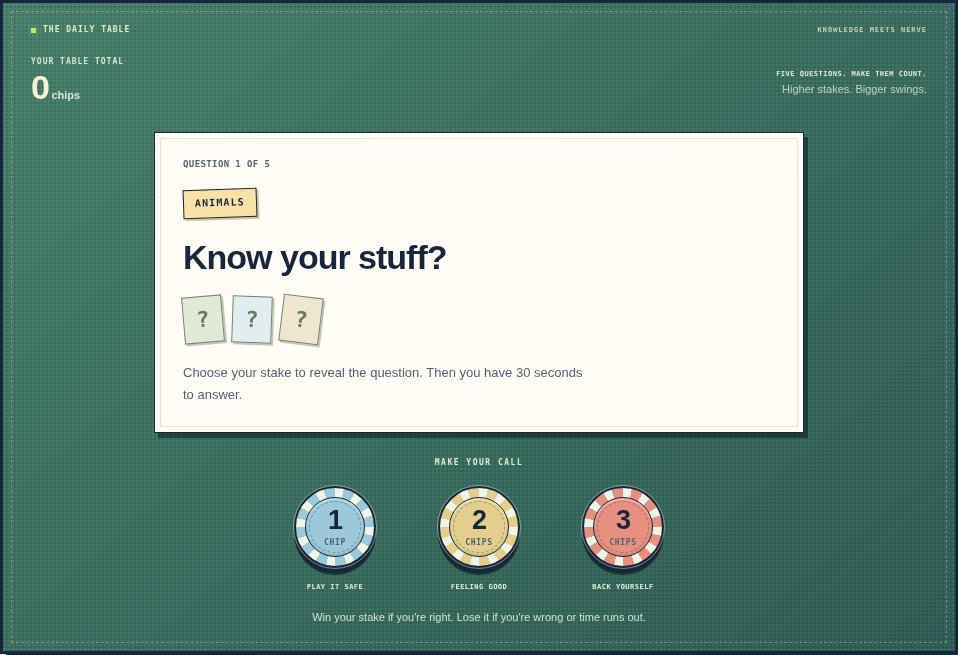
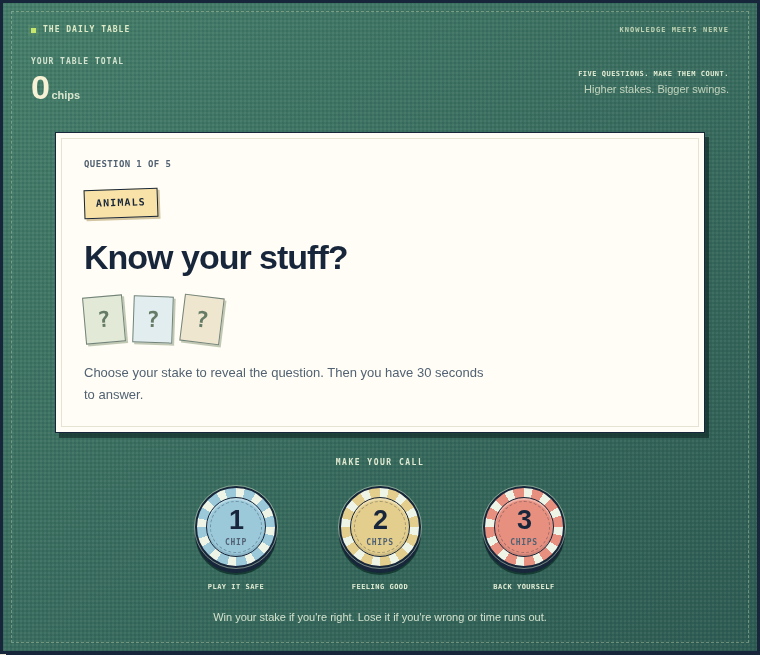
Share Stack Up reset cards, simplify Lowball Daily label and centre Stake

diff --git a/games/stake/index.html b/games/stake/index.html
@@ -47,13 +47,13 @@ textarea{resize:none}.big{font-size:44px;font-weight:800;margin:.1em 0}
 .game-popup-backdrop{position:fixed;inset:0;z-index:1000;background:rgba(7,4,20,.82);display:grid;place-items:center;padding:18px}.game-popup-backdrop[hidden]{display:none}.game-popup{position:relative;width:min(100%,540px);max-height:min(86vh,760px);overflow:auto;background:var(--card);color:var(--ink);border:2px solid var(--line);box-shadow:6px 7px 0 #05030d;padding:26px}.game-popup h2{font-size:24px;margin:4px 0 12px}.game-popup p{color:var(--mut)}.popup-kicker{color:var(--gold)!important;font-size:11px;font-weight:800;letter-spacing:.14em}.game-popup-close{position:absolute;right:10px;top:10px;border:2px solid var(--line);background:transparent;color:var(--ink);font-size:24px;width:36px;height:36px;cursor:pointer}.popup-instructions{line-height:1.6}.popup-instructions strong{color:var(--ink)}.popup-done{margin-top:12px}.extended-stats-grid{display:grid;grid-template-columns:repeat(2,minmax(0,1fr));gap:10px}.extended-stats-grid>div{border:2px solid var(--line);padding:12px;background:var(--bg)}.extended-stats-grid strong,.extended-stats-grid span{display:block}.extended-stats-grid strong{font-size:23px;color:var(--gold)}.extended-stats-grid span{font-size:10px;color:var(--mut);font-weight:800;letter-spacing:.07em}.popup-footnote{font-size:12px}.standalone-footer{text-align:center;color:var(--mut);font-size:12px;margin:28px 0 0}.sound-control{background:transparent;color:var(--mut);border:0;font:inherit;cursor:pointer}.standalone-legal{display:flex;justify-content:center;gap:16px;margin:12px}.standalone-legal a{color:var(--mut)}.standalone-site-footer{margin-top:0}
 @media(max-width:520px){.standalone-wrap{padding:18px 12px 26px}.standalone-heading{gap:10px}.standalone-title-group h1{font-size:25px}.quick-stats{gap:6px}.quick-stat{padding:10px 4px}.quick-stat strong{font-size:22px}.game-popup{padding:24px 18px}}
 
-</style><script defer src="../../navigation.js"></script><script src="../../daily-clock.js"></script><link rel="stylesheet" href="../../break-room.css"><script src="questions.js"></script><link rel="stylesheet" href="timer.css"><link rel="stylesheet" href="../../game-dialog.css"><link rel="stylesheet" href="table.css"></head><body><header class="site-header game-site-header"><div class="wrap game-header-inner"><button class="game-menu-toggle" id="game-menu-toggle" type="button" aria-expanded="false" aria-controls="game-menu"><span class="hamburger-lines" aria-hidden="true">☰</span><span class="menu-toggle-label">MENU</span></button><a class="brand" href="../../index.html" aria-label="Break Room — back to all games"><span class="break-mark" aria-hidden="true"><i></i><i></i><i></i><i></i></span><span class="break-wordmark">BREAK ROOM</span></a><a class="game-header-account" href="../../login.html">ACCOUNT</a></div><nav class="game-menu" id="game-menu" aria-label="Break Room menu" aria-hidden="true" hidden>
+</style><script defer src="../../navigation.js"></script><script src="../../daily-clock.js"></script><link rel="stylesheet" href="../../break-room.css"><script src="questions.js"></script><link rel="stylesheet" href="timer.css"><link rel="stylesheet" href="../../game-dialog.css"><link rel="stylesheet" href="table.css"><link rel="stylesheet" href="../../daily-reset.css"></head><body><header class="site-header game-site-header"><div class="wrap game-header-inner"><button class="game-menu-toggle" id="game-menu-toggle" type="button" aria-expanded="false" aria-controls="game-menu"><span class="hamburger-lines" aria-hidden="true">☰</span><span class="menu-toggle-label">MENU</span></button><a class="brand" href="../../index.html" aria-label="Break Room — back to all games"><span class="break-mark" aria-hidden="true"><i></i><i></i><i></i><i></i></span><span class="break-wordmark">BREAK ROOM</span></a><a class="game-header-account" href="../../login.html">ACCOUNT</a></div><nav class="game-menu" id="game-menu" aria-label="Break Room menu" aria-hidden="true" hidden>
 <div class="game-menu-heading"><span class="section-meta">BREAK ROOM</span><button class="game-menu-close" id="game-menu-close" type="button" aria-label="Close menu">×</button></div>
 <div class="game-menu-content"><div class="game-menu-group"><span class="section-meta">PLAY NOW</span><a href="../../index.html#daily-games">All games</a><a href="../../games/lowball/index.html">Lowball</a><a href="../../games/stake/index.html">Stake</a><a href="../../games/stack-up/index.html">Stack Up</a></div>
 <div class="game-menu-group"><span class="section-meta">COMING SOON</span><a href="../../games/pixel-pairs/index.html">Pixel Pairs</a><a href="../../games/word-forge/index.html">Word Forge</a><a href="../../games/gridlock/index.html">Gridlock</a><a href="../../games/number-drop/index.html">Number Drop</a><a href="../../games/memory-lane/index.html">Memory Lane</a><a href="../../games/mystery-cabinet/index.html">Mystery Cabinet</a></div><div class="game-menu-group"><span class="section-meta">YOUR ARCADE</span><a href="../../profile.html">My stats</a><a href="../../friends.html">Friends</a><a href="../../login.html">Account / sign in</a></div></div></nav></header><main class="standalone-page"><div class="standalone-wrap">
 <section class="standalone-heading" aria-labelledby="stake-page-title"><div class="standalone-heading-spacer"></div><div class="standalone-title-group"><h1 id="stake-page-title">Stake</h1><p>Trivia / Risk · Bet your chips.</p></div><section class="quick-stats" aria-label="Your Stake stats"><div class="quick-stat"><strong id="stake-streak">0</strong><span>Streak</span></div><div class="quick-stat"><strong id="stake-best">0</strong><span>Best</span></div><div class="quick-stat"><strong id="stake-played">0</strong><span>Played</span></div></section><div class="standalone-tools"><button class="mini-tool" id="help-popup-open" type="button" aria-label="How to play" title="How to play">?</button><button class="mini-tool" id="stats-popup-open" type="button" aria-label="Extended game stats" title="Extended game stats"><img src="../../assets/icons/trophy.svg" alt=""></button></div></section>
 
-<aside class="live-reset" aria-label="Daily reset">NEXT DAILY RESET<strong data-daily-countdown>--:--:--</strong><p>Midnight Sydney. Every game.</p></aside><div id="app"></div>
+<aside class="live-reset timer-card daily-reset-card" aria-label="Daily reset"><div class="card-heading">NEXT DAILY RESET</div><div class="reset-clock" data-daily-countdown>--:--:--</div><p>Same time. Every game.</p></aside><div id="app"></div>
 <div class="game-popup-backdrop" id="help-popup" hidden><section class="game-popup" role="dialog" aria-modal="true" aria-labelledby="help-popup-title"><button class="game-popup-close" type="button" data-popup-close aria-label="Close">×</button><p class="popup-kicker">PLAYER GUIDE</p><h2 id="help-popup-title">HOW TO PLAY STAKE</h2><p>Stake chips on your knowledge across five daily trivia questions, or play unlimited rounds.</p><div class="popup-instructions"><p><strong>1. Choose your stake.</strong> Bet 1, 2, or 3 chips before the answer choices appear.</p><p><strong>2. Pick an answer.</strong> You have 30 seconds after placing your bet. A correct answer wins the chips you staked; a wrong answer or timeout loses them. The timer keeps running if you leave or switch modes.</p><p><strong>3. Finish the daily set.</strong> Answer all five questions to see your final score and share your result. Unlimited mode is for practice and does not affect your daily streak.</p></div><button class="button pink popup-done" type="button" data-popup-close>GOT IT</button></section></div>
 <div class="game-popup-backdrop" id="stats-popup" hidden><section class="game-popup" role="dialog" aria-modal="true" aria-labelledby="stats-popup-title"><button class="game-popup-close" type="button" data-popup-close aria-label="Close">×</button><p class="popup-kicker">CABINET RECORD</p><h2 id="stats-popup-title">EXTENDED STATS</h2><p class="stats-popup-game">Stake · Trivia / Risk</p><div class="extended-stats-grid"><div><strong id="stat-played">0</strong><span>RUNS PLAYED</span></div><div><strong id="stat-best">—</strong><span>BEST SCORE</span></div><div><strong id="stat-average">—</strong><span>AVERAGE SCORE</span></div><div><strong id="stat-streak">0</strong><span>CURRENT STREAK</span></div><div><strong id="stat-perfect">0</strong><span>POSITIVE RUNS</span></div><div><strong id="stat-last">—</strong><span>LAST SCORE</span></div></div><p class="popup-footnote">Stats are stored in this browser and do not sync between devices.</p><button class="button pink popup-done" type="button" data-popup-close>BACK TO GAME</button></section></div>
 <div class="standalone-footer"><p>Break Room is an independent collection of daily games. Game artwork and challenge mechanics vary by cabinet.</p></div></div></main><footer class="site-footer standalone-site-footer"><div class="wrap footer-inner"><span>© 2026 Break Room · ONE DAY. ONE RUN.</span><div class="footer-links"><a href="../../index.html">All games</a><a href="../../style-guide.html">Style guide</a></div></div></footer>

diff --git a/games/stack-up/index.html b/games/stack-up/index.html
@@ -5,7 +5,7 @@
     <meta name="theme-color" content="#f4eddc">
     <title>Stack Up — Break Room</title>
     
-  <meta name="description" content="Sort five familiar things against the clock. Play a fresh daily challenge or free Infinite practice at Break Room."><link rel="icon" href="../../assets/break-room-icon.svg"><link rel="stylesheet" href="../../stack-layout.css"><link rel="stylesheet" href="stack-up.css"><script src="../../daily-clock.js"></script><script defer="" src="../../navigation.js"></script><script defer src="legacy-stacks.js"></script><script defer="" src="stacks.js"></script><script defer="" src="stack-up.js"></script><link rel="stylesheet" href="../../game-dialog.css"></head>
+  <meta name="description" content="Sort five familiar things against the clock. Play a fresh daily challenge or free Infinite practice at Break Room."><link rel="icon" href="../../assets/break-room-icon.svg"><link rel="stylesheet" href="../../stack-layout.css"><link rel="stylesheet" href="stack-up.css"><script src="../../daily-clock.js"></script><script defer="" src="../../navigation.js"></script><script defer src="legacy-stacks.js"></script><script defer="" src="stacks.js"></script><script defer="" src="stack-up.js"></script><link rel="stylesheet" href="../../game-dialog.css"><link rel="stylesheet" href="../../daily-reset.css"></head>
   <body>
     <div class="site-frame">
       <header class="topbar"><div class="header-brand"><button id="game-menu-toggle" type="button" aria-label="Open games menu" aria-controls="game-menu" aria-expanded="false">☰</button><a class="brand" href="../../index.html"><img src="../../assets/break-room-icon.svg" width="28" height="28" alt="">BREAK ROOM</a></div><nav class="main-nav" aria-label="Game mode"><button class="nav-link active" data-mode="daily" type="button" aria-pressed="true">Daily <em>10×</em></button><button class="nav-link" data-mode="infinite" type="button" aria-pressed="false">Infinite</button></nav><a class="player-chip" href="../../login.html"><span>ACCOUNT</span></a></header>
@@ -90,7 +90,7 @@
           </section>
 
           <section class="leaderboard-card" id="your-record"><div class="leaderboard-heading"><div><span class="tiny-label">ON THIS DEVICE</span><h2>Your record</h2></div></div><dl class="record-grid"><div><dt>Played</dt><dd id="record-played">0</dd></div><div><dt>Best</dt><dd id="record-best">—</dd></div><div><dt>Streak</dt><dd id="record-streak">0</dd></div><div><dt>Average</dt><dd id="record-average">—</dd></div></dl><p class="local-note">Daily results saved in this browser. Infinite is practice.</p></section>
-        <section class="timer-card"><div class="card-heading">NEXT DAILY RESET</div><div class="reset-clock" data-daily-countdown="">--:--:--</div><p>Same time. Every game.</p></section></aside>
+        <section class="timer-card daily-reset-card"><div class="card-heading">NEXT DAILY RESET</div><div class="reset-clock" data-daily-countdown="">--:--:--</div><p>Same time. Every game.</p></section></aside>
         </div>
       </main>
     <footer class="game-footer"><a href="../../index.html">← All games</a><p>BREAK ROOM · A little break. A few good games.</p><a href="../../profile.html">Profile</a></footer></div>

diff --git a/games/stake/table.css b/games/stake/table.css
@@ -32,3 +32,14 @@ body:has(#app) .standalone-page{max-width:1360px;padding-top:30px}.standalone-wr
 @media(max-width:900px){.standalone-heading .quick-stat{padding:10px 3px}.standalone-heading .quick-stat strong{font-size:20px}.standalone-heading .quick-stat span{font-size:7px;letter-spacing:.03em}.standalone-title-group p{font-size:12px}}
 @media(max-width:650px){#app{order:1}.standalone-heading:has(#stake-page-title){grid-template-columns:minmax(0,1fr) 144px minmax(0,1fr);gap:8px}#stake-page-title{font-size:30px}.standalone-title-group p{display:none}.standalone-heading .standalone-tools{gap:6px}.standalone-heading .mini-tool{width:36px;height:36px}.standalone-heading .quick-stat strong{font-size:19px}.standalone-heading .quick-stat span{font-size:7px}}
 @media(max-width:360px){.standalone-heading:has(#stake-page-title){grid-template-columns:minmax(0,1fr) 124px minmax(0,1fr)}#stake-page-title{font-size:24px}.standalone-heading .mini-tool{width:32px;height:34px;font-size:17px}.standalone-heading .standalone-tools{gap:4px}.standalone-heading .quick-stat{padding:9px 2px}.standalone-heading .quick-stat strong{font-size:18px}.standalone-heading .quick-stat span{font-size:6px}}
+/* Match Lowball's centred game column; the independent reset rail never offsets it. */
+body:has(#app) .standalone-page{max-width:none;width:100%;padding:28px 24px 32px}
+body:has(#app) .standalone-wrap{position:relative;display:flex;flex-direction:column;align-items:stretch;width:100%;max-width:760px;gap:18px;margin:0 auto;padding:0}
+.standalone-heading:has(#stake-page-title){order:0;align-self:stretch;width:100%}
+.standalone-wrap:has(#app)>#app{order:2;grid-column:auto;grid-row:auto;align-self:stretch;width:100%;min-width:0}
+#app .pips{justify-content:center}#app>.mut{text-align:center}
+.standalone-wrap:has(#app)>.live-reset{order:1;position:static;grid-column:auto;grid-row:auto;align-self:flex-end;display:block;width:min(260px,100%);margin:0}
+.standalone-wrap:has(#app)>.standalone-footer{order:3;grid-column:auto;align-self:center;width:100%;max-width:600px;margin:8px 0 0;text-align:center}
+@media(min-width:1100px){body:has(#app) .standalone-wrap{--stake-column:min(760px,calc(100vw - 448px));max-width:var(--stake-column)}.standalone-wrap:has(#app)>.live-reset{position:absolute;top:0;left:calc(100% + 24px);width:min(240px,calc((100vw - var(--stake-column))/2 - 48px))}}
+@media(max-width:650px){body:has(#app) .standalone-page{padding:22px 16px 30px}body:has(#app) .standalone-wrap{gap:17px}}
+@media(max-width:360px){body:has(#app) .standalone-page{padding-left:12px;padding-right:12px}}

diff --git a/games/lowball/engine/index.html b/games/lowball/engine/index.html
@@ -590,6 +590,7 @@
 
 <link rel="stylesheet" href="break-room-engine.css">
 <link rel="stylesheet" href="counter.css">
+<link rel="stylesheet" href="../../../daily-reset.css">
 
 <script src="../../../daily-clock.js"></script></head>
 <body>
@@ -609,7 +610,7 @@
   </header>
 
   <section class="session-settings" aria-label="Daily reset and price region">
-  <aside class="live-reset" id="nextDaily" aria-label="Daily reset">NEXT DAILY RESET<strong data-daily-countdown>--:--:--</strong><p>Midnight Sydney. Every game.</p><span class="new-daily-ready" hidden>New daily ready. Tap to play</span></aside>
+  <aside class="live-reset timer-card daily-reset-card" id="nextDaily" aria-label="Daily reset"><div class="card-heading">NEXT DAILY RESET</div><div class="reset-clock" data-daily-countdown>--:--:--</div><p>Same time. Every game.</p><span class="new-daily-ready" hidden>New daily ready. Tap to play</span></aside>
 
   <div class="country-row">
     <span class="country-label">Playing as</span>
@@ -622,7 +623,7 @@
   </section>
 
   <div class="mode-toggle">
-    <button class="mode-btn active" id="normalModeBtn">Daily<span class="rounds"> (4 rounds)</span></button>
+    <button class="mode-btn active" id="normalModeBtn">Daily</button>
     <button class="mode-btn" id="unlimitedModeBtn">Unlimited</button>
   </div>
 

diff --git a/daily-reset.css b/daily-reset.css
@@ -1,0 +1,42 @@
+/* Shared copy of Stack Up's daily-reset card. Loaded after each game's styles. */
+:root .daily-reset-card {
+  box-sizing: border-box;
+  background: #fffdf5;
+  border: 2px solid #17263a;
+  border-radius: 0;
+  box-shadow: 4px 4px 0 #17263a;
+  padding: 17px 17px 15px;
+  color: #17263a;
+  font-family: Inter, ui-sans-serif, -apple-system, BlinkMacSystemFont, "Segoe UI", sans-serif;
+  font-size: 16px;
+  font-weight: 400;
+  line-height: normal;
+  text-align: start;
+  letter-spacing: normal;
+}
+:root .daily-reset-card .card-heading {
+  display: flex;
+  align-items: center;
+  gap: 8px;
+  margin: 0;
+  padding: 0;
+  color: #526273;
+  font: 900 10px/normal ui-monospace, monospace;
+  letter-spacing: .7px;
+}
+:root .daily-reset-card .reset-clock {
+  display: block;
+  margin: 12px 0 0;
+  padding: 0;
+  color: #17263a;
+  font: 900 27px/normal ui-monospace, monospace;
+  letter-spacing: normal;
+  white-space: nowrap;
+}
+:root .daily-reset-card p {
+  margin: 10px 0 0;
+  padding: 0;
+  color: #526273;
+  font: 400 11px/normal Inter, ui-sans-serif, -apple-system, BlinkMacSystemFont, "Segoe UI", sans-serif;
+  letter-spacing: normal;
+}

diff --git a/VALIDATION.md b/VALIDATION.md
@@ -111,3 +111,12 @@ Replaced the offset sidebar layout with one centred column. Header, mode buttons
 ### Lowball top-right reset rail — 19 October 2026
 
 Moved the countdown and region selector into a stacked top-right rail, independent of the centred game column. The sound toggle remains directly below the playing area on the same centre line. Narrow layouts keep the stacked controls above the game. Browser checks passed at 320, 390, 768, 1024, 1100, 1280 and 1440px: centred header/modes/game/sound, countdown above region selector, desktop rail outside the game without shifting its centre, no clipped dropdown or horizontal overflow, region switching, scoring, and retained faceted gems. Updated mobile/desktop previews are in `design/previews/game-polish/`.
+
+### Four layout goals completed — 19 October 2026
+
+1. Copied Stack Up's boxed daily reset into Lowball and Stake through one shared stylesheet, preserving Stack Up's original appearance.
+2. Removed the “(4 rounds)” suffix from Lowball's Daily button without changing the daily rules.
+3. Centred Stake's header, stats, modes, progress markers and table on the same responsive axis/width as Lowball. Kept the reset box in an independent top-right rail on wide screens.
+4. Verified the requested appearance and behaviour in the browser.
+
+Validation: `tests/layout-goals.cjs` passed at 320/390/768/1024/1100/1440px, including exact computed-style equality against Stack Up with the new stylesheet disabled, unchanged Stack Up styles after enabling it, equal countdown values, literal “Daily” text, equal centred game widths, reset/region/sound placement, no horizontal overflow or clipped dropdown, and working menus, modes and bets. `tests/smoke.cjs` passed all 532 assertions; `tests/stake-timer.cjs` passed all four widths, timeout/persistence/mode and popup checks; `tests/homepage-reset.cjs` passed all responsive and four-timezone midnight rollover checks. Full-page and reset-card previews were saved for desktop and mobile in `design/previews/game-polish/`. No public hosting deployment was performed.

diff --git a/README.md b/README.md
@@ -118,3 +118,11 @@ Short stepped entrance, receipt, stamp, and chip animations respect reduced-moti
 ### Restored Lowball score gems
 
 Lowball's round and final results use the original Break Room cut-corner, faceted score gems again: soft green, yellow, orange, and coral. The shared `LOWBALL_ART.gem()` renderer restores the exact earlier design and preserves existing tier thresholds and animations. Item illustrations and the trophy, lock, stats, and sound icons remain generated PNGs. The glossy square gem PNGs are archived with their source atlas but no longer mapped into the game.
+
+### Shared boxed resets and centred Stake
+
+`daily-reset.css` contains the original Stack Up reset-card appearance and is loaded last by Stack Up, Stake, and Lowball. Each reset card has the same cream background, navy border and hard shadow, heading, monospaced countdown, and “Same time. Every game.” note. The existing shared Sydney-midnight clock and Lowball's new-daily reload prompt are retained.
+
+Stake now uses the same centred responsive column as Lowball for the heading, personal stats, mode controls, progress markers, and playing surface. Its boxed reset sits independently at the top right on wide screens and above the game on narrower screens. Lowball's region remains under its boxed reset, its sound toggle stays centred below the game, and the Daily mode button now says only “Daily” (the four-round rules are unchanged).
+
+Run `ARCADE_TEST_URL=http://127.0.0.1:8025 node tests/layout-goals.cjs` against a root static server for the four requested acceptance checks. The reset comparison first disables the new stylesheet on Stack Up to read its original appearance, then compares both other games against that baseline.
